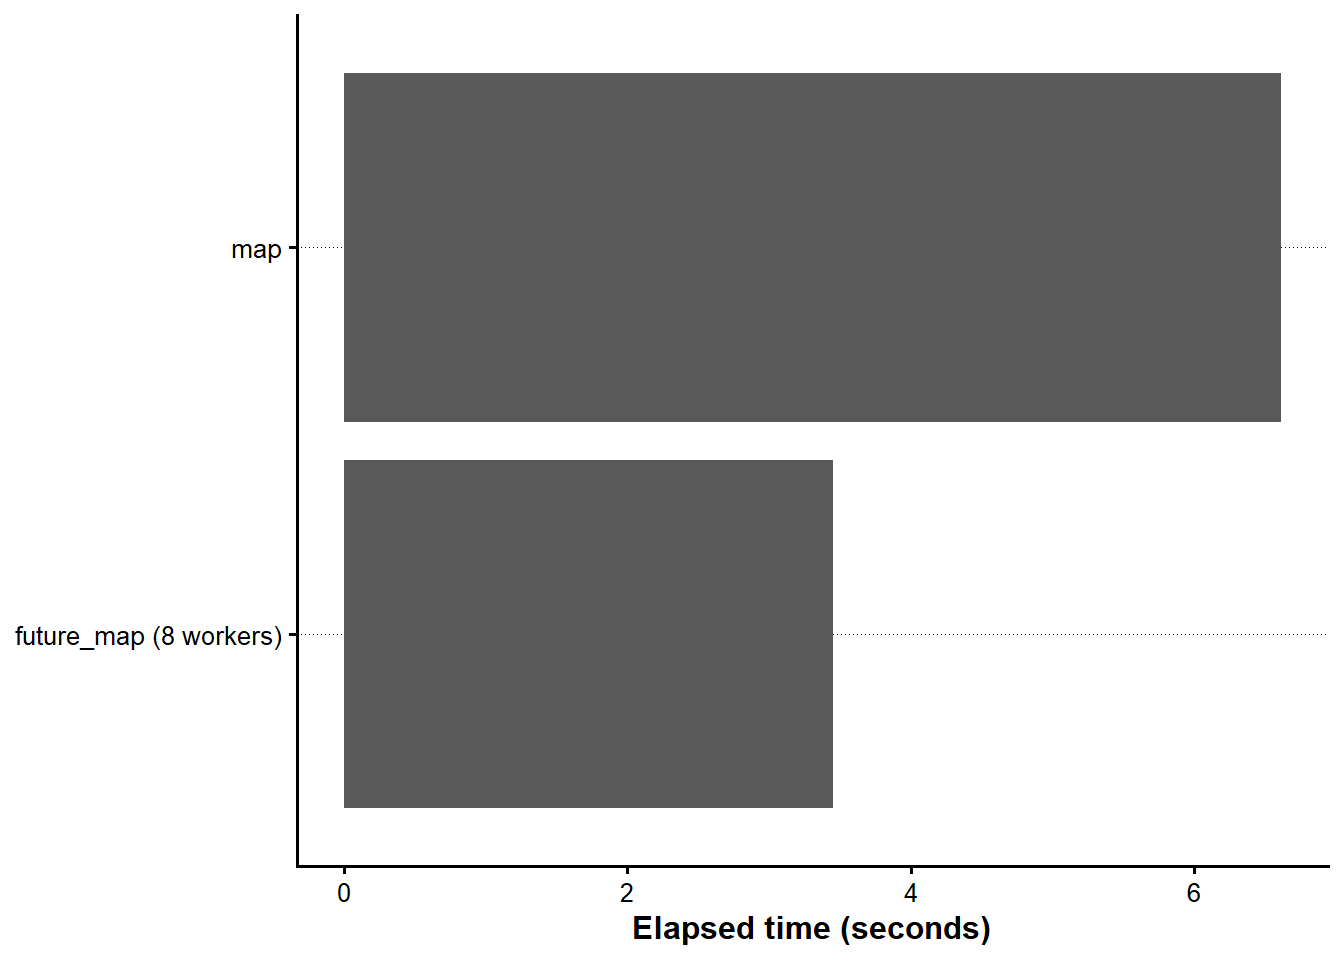
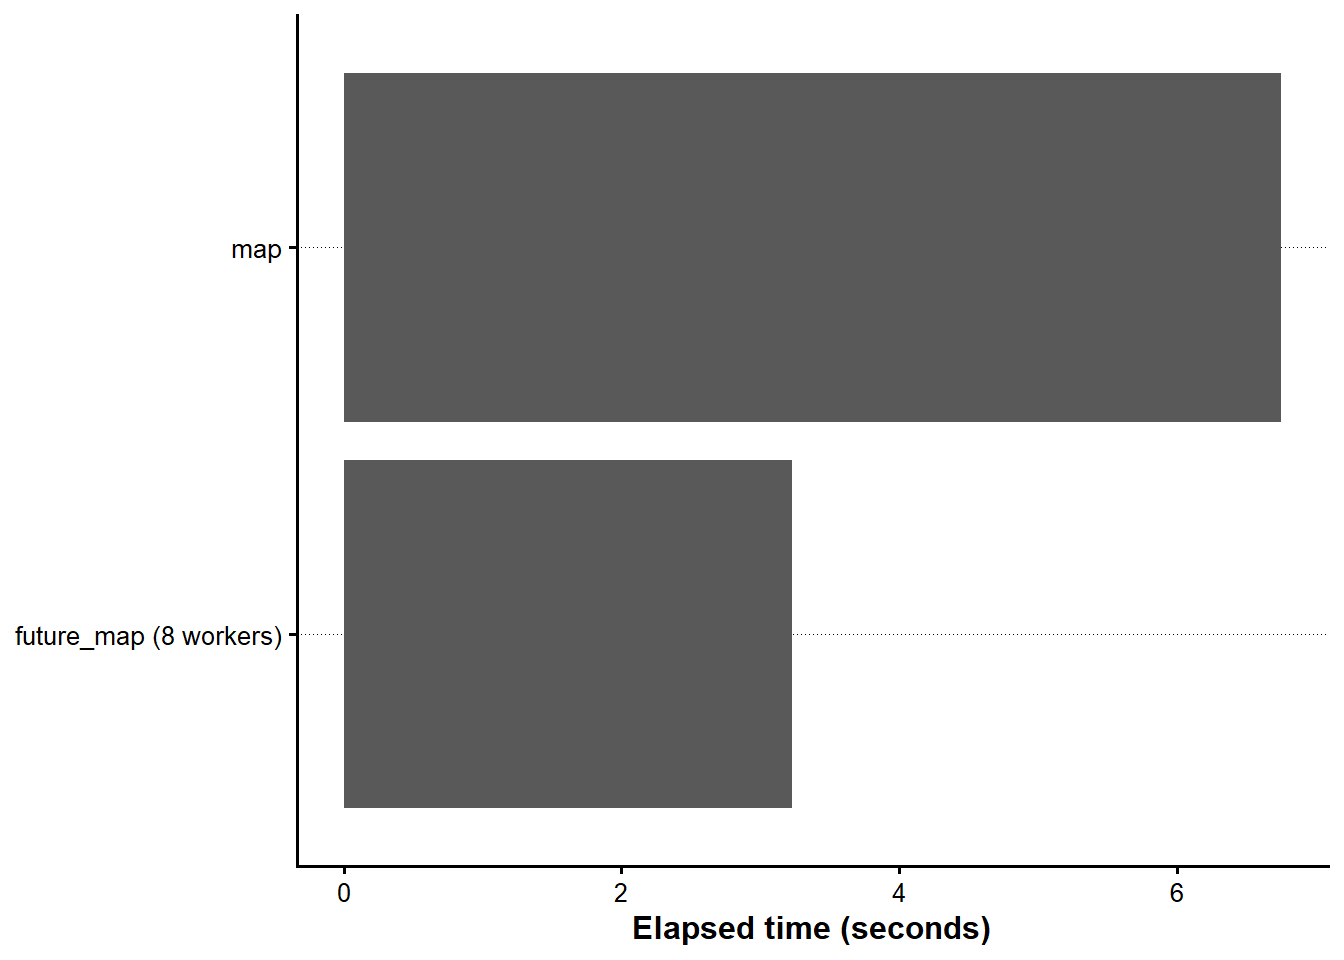
Rebuild HTML book

diff --git a/_book/index.html b/_book/index.html
@@ -8,7 +8,7 @@
 
 <meta name="author" content="Eiichi Horigome">
 
-<title>エンタープライズ金融モデル構築</title>
+<title>はじめに</title>
 <style>
 /* Default styles provided by pandoc.
 ** See https://pandoc.org/MANUAL.html#variables-for-html for config info.
@@ -85,7 +85,7 @@ ul.task-list li input[type="checkbox"] {
       <button type="button" class="quarto-btn-toggle btn" data-bs-toggle="collapse" role="button" data-bs-target=".quarto-sidebar-collapse-item" aria-controls="quarto-sidebar" aria-expanded="false" aria-label="Toggle sidebar navigation" onclick="if (window.quartoToggleHeadroom) { window.quartoToggleHeadroom(); }">
         <i class="bi bi-layout-text-sidebar-reverse"></i>
       </button>
-        <nav class="quarto-page-breadcrumbs" aria-label="breadcrumb"><ol class="breadcrumb"><li class="breadcrumb-item"><a href="./index.html"><span class="chapter-title">金融モデル構築からエンタープライズへ</span></a></li></ol></nav>
+        <nav class="quarto-page-breadcrumbs" aria-label="breadcrumb"><ol class="breadcrumb"><li class="breadcrumb-item"><a href="./index.html"><span class="chapter-title">はじめに</span></a></li></ol></nav>
         <a class="flex-grow-1" role="navigation" data-bs-toggle="collapse" data-bs-target=".quarto-sidebar-collapse-item" aria-controls="quarto-sidebar" aria-expanded="false" aria-label="Toggle sidebar navigation" onclick="if (window.quartoToggleHeadroom) { window.quartoToggleHeadroom(); }">      
         </a>
       <button type="button" class="btn quarto-search-button" aria-label="Search" onclick="window.quartoOpenSearch();">
@@ -112,7 +112,7 @@ ul.task-list li input[type="checkbox"] {
     <ul class="list-unstyled mt-1">
         <li class="sidebar-item">
   <div class="sidebar-item-container"> 
-  <a href="./index.html" class="sidebar-item-text sidebar-link active"><span class="chapter-title">金融モデル構築からエンタープライズへ</span></a>
+  <a href="./index.html" class="sidebar-item-text sidebar-link active"><span class="chapter-title">はじめに</span></a>
   </div>
 </li>
         <li class="sidebar-item sidebar-item-section">
@@ -267,7 +267,7 @@ ul.task-list li input[type="checkbox"] {
 
 <header id="title-block-header" class="quarto-title-block default">
 <div class="quarto-title">
-<h1 class="title">エンタープライズ金融モデル構築</h1>
+<h1 class="title">はじめに</h1>
 <p class="subtitle lead">Rによる金融データモデリング・金融工学・並列分散コンピューティング</p>
 </div>
 
@@ -291,8 +291,10 @@ ul.task-list li input[type="checkbox"] {
 </header>
 
 
-<div style="text-align:right; font-style:italic; margin-top:2em; margin-bottom:2em;">
-<p>“All models are wrong, but some are useful.” “「すべてのモデルは正しくない。しかし、その中には有用なものもある。」*<br>
+<p><img src="images/cover.png" title="エンタープライズ金融モデル構築" class="quarto-cover-image nolightbox img-fluid"></p>
+<div style="text-align: right; font-style: italic; margin-top: 2em; margin-bottom: 2em;">
+<p>“All models are wrong, but some are useful.”<br>
+「すべてのモデルは正しくない。しかし、その中には有用なものもある。」<br>
 — George E. P. Box</p>
 </div>
 <section id="金融モデル構築からエンタープライズへ" class="level1">
@@ -304,7 +306,9 @@ ul.task-list li input[type="checkbox"] {
 <p><strong>金融工学を学ぶ時代から、自ら金融工学システムを構築する時代へ。</strong></p>
 </blockquote>
 <p>という新しい潮流が生まれている。</p>
-<p>なお、本書は三部構成となっている。 第I部では、均衡モデルを中心とした実証ファイナンスを扱い、財務データや市場データを用いた分析手法を学ぶ。第II部では、無裁定価格理論を中心として、債券、金利期間構造、デリバティブ、信用リスクなどの金融工学モデルを実装する。さらに第III部では、第II部で実装した無裁定価格モデルを基盤として、並列処理および分散処理環境へ展開し、大規模な金融工学計算を実装する方法を扱う。 また、その実装基盤としてRおよびtidyverseを採用する。Rは統計解析言語として広く利用されているが、本書では、優れたデータハンドリング機能、ベクトル演算、関数型プログラミングの特徴を備えた実装基盤として位置付けている。これらの特徴を活かすことで、金融データの取得・加工から価格評価、リスク計測、さらには並列・分散コンピューティング環境を利用した大規模金融工学計算までを、一貫した設計思想のもとで実装することができる。</p>
+<p>なお、本書は三部構成となっている。</p>
+<p>第I部では、均衡モデルを中心とした実証ファイナンスを扱い、財務データや市場データを用いた分析手法を学ぶ。第II部では、無裁定価格理論を中心として、債券、金利期間構造、デリバティブ、信用リスクなどの金融工学モデルを実装する。さらに第III部では、第II部で実装した無裁定価格モデルを基盤として、並列処理および分散処理環境へ展開し、大規模な金融工学計算を実装する方法を扱う。</p>
+<p>また、その実装基盤としてRおよびtidyverseを採用する。Rは統計解析言語として広く利用されているが、本書では、優れたデータハンドリング機能、ベクトル演算、関数型プログラミングの特徴を備えた実装基盤として位置付けている。これらの特徴を活かすことで、金融データの取得・加工から価格評価、リスク計測、さらには並列・分散コンピューティング環境を利用した大規模金融工学計算までを、一貫した設計思想のもとで実装することができる。</p>
 <p>本書の目的は、金融理論を理解することだけではなく、それらをソフトウェアとして実装し、現代の金融工学システムを構築するための基礎技術を体系的に習得することにある。</p>
 
 

diff --git a/_book/part1_empirical/ch01_r_basics_tidyverse.html b/_book/part1_empirical/ch01_r_basics_tidyverse.html
@@ -147,7 +147,7 @@ pre > code.sourceCode > span > a:first-child::before { text-decoration: underlin
     <ul class="list-unstyled mt-1">
         <li class="sidebar-item">
   <div class="sidebar-item-container"> 
-  <a href="../index.html" class="sidebar-item-text sidebar-link"><span class="chapter-title">金融モデル構築からエンタープライズへ</span></a>
+  <a href="../index.html" class="sidebar-item-text sidebar-link"><span class="chapter-title">はじめに</span></a>
   </div>
 </li>
         <li class="sidebar-item sidebar-item-section">
@@ -1763,12 +1763,12 @@ pre > code.sourceCode > span > a:first-child::before { text-decoration: underlin
 <span id="cb64-12"><a href="#cb64-12" aria-hidden="true" tabindex="-1"></a><span class="co">#&gt; # A tibble: 2 × 5</span></span>
 <span id="cb64-13"><a href="#cb64-13" aria-hidden="true" tabindex="-1"></a><span class="co">#&gt;   chr_method             num_pi num_elapsed_seconds num_absolute_error</span></span>
 <span id="cb64-14"><a href="#cb64-14" aria-hidden="true" tabindex="-1"></a><span class="co">#&gt;   &lt;chr&gt;                   &lt;dbl&gt;               &lt;dbl&gt;              &lt;dbl&gt;</span></span>
-<span id="cb64-15"><a href="#cb64-15" aria-hidden="true" tabindex="-1"></a><span class="co">#&gt; 1 map                    3.1414              6.61          0.00016693 </span></span>
-<span id="cb64-16"><a href="#cb64-16" aria-hidden="true" tabindex="-1"></a><span class="co">#&gt; 2 future_map (8 workers) 3.1415              3.4500        0.000094774</span></span>
+<span id="cb64-15"><a href="#cb64-15" aria-hidden="true" tabindex="-1"></a><span class="co">#&gt; 1 map                    3.1414              6.75          0.00016693 </span></span>
+<span id="cb64-16"><a href="#cb64-16" aria-hidden="true" tabindex="-1"></a><span class="co">#&gt; 2 future_map (8 workers) 3.1415              3.2300        0.000094774</span></span>
 <span id="cb64-17"><a href="#cb64-17" aria-hidden="true" tabindex="-1"></a><span class="co">#&gt;   num_speedup</span></span>
 <span id="cb64-18"><a href="#cb64-18" aria-hidden="true" tabindex="-1"></a><span class="co">#&gt;         &lt;dbl&gt;</span></span>
 <span id="cb64-19"><a href="#cb64-19" aria-hidden="true" tabindex="-1"></a><span class="co">#&gt; 1      1     </span></span>
-<span id="cb64-20"><a href="#cb64-20" aria-hidden="true" tabindex="-1"></a><span class="co">#&gt; 2      1.9159</span></span></code></pre></div><button title="Copy to Clipboard" class="code-copy-button"><i class="bi"></i></button></div>
+<span id="cb64-20"><a href="#cb64-20" aria-hidden="true" tabindex="-1"></a><span class="co">#&gt; 2      2.0898</span></span></code></pre></div><button title="Copy to Clipboard" class="code-copy-button"><i class="bi"></i></button></div>
 </div>
 <div class="cell">
 <div class="code-copy-outer-scaffold"><div class="sourceCode cell-code" id="cb65"><pre class="sourceCode r code-with-copy"><code class="sourceCode r"><span id="cb65-1"><a href="#cb65-1" aria-hidden="true" tabindex="-1"></a>p <span class="ot">&lt;-</span> tbl_pi_benchmark <span class="sc">|&gt;</span></span>
@@ -1838,7 +1838,7 @@ pre > code.sourceCode > span > a:first-child::before { text-decoration: underlin
 <span id="cb67-3"><a href="#cb67-3" aria-hidden="true" tabindex="-1"></a>arrow<span class="sc">::</span><span class="fu">write_parquet</span>(tbl_arrow_price, <span class="at">sink =</span> path_parquet)</span>
 <span id="cb67-4"><a href="#cb67-4" aria-hidden="true" tabindex="-1"></a></span>
 <span id="cb67-5"><a href="#cb67-5" aria-hidden="true" tabindex="-1"></a>path_parquet</span>
-<span id="cb67-6"><a href="#cb67-6" aria-hidden="true" tabindex="-1"></a><span class="co">#&gt; [1] "C:\\Users\\besuk\\AppData\\Local\\Temp\\Rtmpu2tQjt/financial_prices.parquet"</span></span></code></pre></div><button title="Copy to Clipboard" class="code-copy-button"><i class="bi"></i></button></div>
+<span id="cb67-6"><a href="#cb67-6" aria-hidden="true" tabindex="-1"></a><span class="co">#&gt; [1] "C:\\Users\\besuk\\AppData\\Local\\Temp\\Rtmp67OMeB/financial_prices.parquet"</span></span></code></pre></div><button title="Copy to Clipboard" class="code-copy-button"><i class="bi"></i></button></div>
 </div>
 <div class="cell">
 <div class="code-copy-outer-scaffold"><div class="sourceCode cell-code" id="cb68"><pre class="sourceCode r code-with-copy"><code class="sourceCode r"><span id="cb68-1"><a href="#cb68-1" aria-hidden="true" tabindex="-1"></a>arrow<span class="sc">::</span><span class="fu">read_parquet</span>(path_parquet) <span class="sc">|&gt;</span></span>
@@ -2511,8 +2511,8 @@ pre > code.sourceCode > span > a:first-child::before { text-decoration: underlin
   </script>
 <nav class="page-navigation">
   <div class="nav-page nav-page-previous">
-      <a href="../index.html" class="pagination-link" aria-label="金融モデル構築からエンタープライズへ">
-        <i class="bi bi-arrow-left-short"></i> <span class="nav-page-text"><span class="chapter-title">金融モデル構築からエンタープライズへ</span></span>
+      <a href="../index.html" class="pagination-link" aria-label="はじめに">
+        <i class="bi bi-arrow-left-short"></i> <span class="nav-page-text"><span class="chapter-title">はじめに</span></span>
       </a>          
   </div>
   <div class="nav-page nav-page-next">

diff --git a/_book/part3_enterprise_riemann/ch01_centric_parallel_comput.html b/_book/part3_enterprise_riemann/ch01_centric_parallel_comput.html
@@ -147,7 +147,7 @@ pre > code.sourceCode > span > a:first-child::before { text-decoration: underlin
     <ul class="list-unstyled mt-1">
         <li class="sidebar-item">
   <div class="sidebar-item-container"> 
-  <a href="../index.html" class="sidebar-item-text sidebar-link"><span class="chapter-title">金融モデル構築からエンタープライズへ</span></a>
+  <a href="../index.html" class="sidebar-item-text sidebar-link"><span class="chapter-title">はじめに</span></a>
   </div>
 </li>
         <li class="sidebar-item sidebar-item-section">
@@ -659,8 +659,8 @@ write_parquet()</code></pre>
 <span id="cb21-11"><a href="#cb21-11" aria-hidden="true" tabindex="-1"></a><span class="co">#&gt; # A tibble: 2 × 3</span></span>
 <span id="cb21-12"><a href="#cb21-12" aria-hidden="true" tabindex="-1"></a><span class="co">#&gt;   method            elapsed_seconds relative_to_sequential</span></span>
 <span id="cb21-13"><a href="#cb21-13" aria-hidden="true" tabindex="-1"></a><span class="co">#&gt;   &lt;chr&gt;                       &lt;dbl&gt;                  &lt;dbl&gt;</span></span>
-<span id="cb21-14"><a href="#cb21-14" aria-hidden="true" tabindex="-1"></a><span class="co">#&gt; 1 purrr::map                 1.3500                1      </span></span>
-<span id="cb21-15"><a href="#cb21-15" aria-hidden="true" tabindex="-1"></a><span class="co">#&gt; 2 furrr::future_map          1.2200                0.90370</span></span></code></pre></div><button title="Copy to Clipboard" class="code-copy-button"><i class="bi"></i></button></div>
+<span id="cb21-14"><a href="#cb21-14" aria-hidden="true" tabindex="-1"></a><span class="co">#&gt; 1 purrr::map                 1.3300                 1     </span></span>
+<span id="cb21-15"><a href="#cb21-15" aria-hidden="true" tabindex="-1"></a><span class="co">#&gt; 2 furrr::future_map          1.5                    1.1278</span></span></code></pre></div><button title="Copy to Clipboard" class="code-copy-button"><i class="bi"></i></button></div>
 </div>
 <div class="cell">
 <div class="code-copy-outer-scaffold"><div class="sourceCode cell-code" id="cb22"><pre class="sourceCode r code-with-copy"><code class="sourceCode r"><span id="cb22-1"><a href="#cb22-1" aria-hidden="true" tabindex="-1"></a>plot_benchmark <span class="ot">&lt;-</span> tbl_benchmark <span class="sc">|&gt;</span></span>

diff --git a/_book/part1_empirical/ch02_financial_data.html b/_book/part1_empirical/ch02_financial_data.html
@@ -176,7 +176,7 @@ window.Quarto = {
     <ul class="list-unstyled mt-1">
         <li class="sidebar-item">
   <div class="sidebar-item-container"> 
-  <a href="../index.html" class="sidebar-item-text sidebar-link"><span class="chapter-title">金融モデル構築からエンタープライズへ</span></a>
+  <a href="../index.html" class="sidebar-item-text sidebar-link"><span class="chapter-title">はじめに</span></a>
   </div>
 </li>
         <li class="sidebar-item sidebar-item-section">
@@ -1289,7 +1289,7 @@ NBC_t = \frac{NFE_t}{NFO_{t-1}}
 <span id="cb28-13"><a href="#cb28-13" aria-hidden="true" tabindex="-1"></a><span class="co">#&gt;                                                                                                        size</span></span>
 <span id="cb28-14"><a href="#cb28-14" aria-hidden="true" tabindex="-1"></a><span class="co">#&gt; C:/AnalyticFin/Projects/LagrangeFinance/data/derived/fundamentals/financial_characteristics.parquet 1357543</span></span>
 <span id="cb28-15"><a href="#cb28-15" aria-hidden="true" tabindex="-1"></a><span class="co">#&gt;                                                                                                                   mtime</span></span>
-<span id="cb28-16"><a href="#cb28-16" aria-hidden="true" tabindex="-1"></a><span class="co">#&gt; C:/AnalyticFin/Projects/LagrangeFinance/data/derived/fundamentals/financial_characteristics.parquet 2026-08-03 14:32:21</span></span></code></pre></div><button title="Copy to Clipboard" class="code-copy-button"><i class="bi"></i></button></div>
+<span id="cb28-16"><a href="#cb28-16" aria-hidden="true" tabindex="-1"></a><span class="co">#&gt; C:/AnalyticFin/Projects/LagrangeFinance/data/derived/fundamentals/financial_characteristics.parquet 2026-08-11 10:19:32</span></span></code></pre></div><button title="Copy to Clipboard" class="code-copy-button"><i class="bi"></i></button></div>
 </div>
 <p>保存したParquetファイルを読み直し、行数と列名が一致することを確認する。</p>
 <div class="cell">

diff --git a/_book/part3_enterprise_riemann/ch02_distribute_comput_jobtask.html b/_book/part3_enterprise_riemann/ch02_distribute_comput_jobtask.html
@@ -147,7 +147,7 @@ pre > code.sourceCode > span > a:first-child::before { text-decoration: underlin
     <ul class="list-unstyled mt-1">
         <li class="sidebar-item">
   <div class="sidebar-item-container"> 
-  <a href="../index.html" class="sidebar-item-text sidebar-link"><span class="chapter-title">金融モデル構築からエンタープライズへ</span></a>
+  <a href="../index.html" class="sidebar-item-text sidebar-link"><span class="chapter-title">はじめに</span></a>
   </div>
 </li>
         <li class="sidebar-item sidebar-item-section">

diff --git a/_book/part3_enterprise_riemann/ch03_impl_enterprise_calc.html b/_book/part3_enterprise_riemann/ch03_impl_enterprise_calc.html
@@ -146,7 +146,7 @@ pre > code.sourceCode > span > a:first-child::before { text-decoration: underlin
     <ul class="list-unstyled mt-1">
         <li class="sidebar-item">
   <div class="sidebar-item-container"> 
-  <a href="../index.html" class="sidebar-item-text sidebar-link"><span class="chapter-title">金融モデル構築からエンタープライズへ</span></a>
+  <a href="../index.html" class="sidebar-item-text sidebar-link"><span class="chapter-title">はじめに</span></a>
   </div>
 </li>
         <li class="sidebar-item sidebar-item-section">

diff --git a/_book/part1_empirical/ch03_stock_data_time_series.html b/_book/part1_empirical/ch03_stock_data_time_series.html
@@ -176,7 +176,7 @@ window.Quarto = {
     <ul class="list-unstyled mt-1">
         <li class="sidebar-item">
   <div class="sidebar-item-container"> 
-  <a href="../index.html" class="sidebar-item-text sidebar-link"><span class="chapter-title">金融モデル構築からエンタープライズへ</span></a>
+  <a href="../index.html" class="sidebar-item-text sidebar-link"><span class="chapter-title">はじめに</span></a>
   </div>
 </li>
         <li class="sidebar-item sidebar-item-section">

diff --git a/_book/part1_empirical/ch04_factor_models.html b/_book/part1_empirical/ch04_factor_models.html
@@ -176,7 +176,7 @@ window.Quarto = {
     <ul class="list-unstyled mt-1">
         <li class="sidebar-item">
   <div class="sidebar-item-container"> 
-  <a href="../index.html" class="sidebar-item-text sidebar-link"><span class="chapter-title">金融モデル構築からエンタープライズへ</span></a>
+  <a href="../index.html" class="sidebar-item-text sidebar-link"><span class="chapter-title">はじめに</span></a>
   </div>
 </li>
         <li class="sidebar-item sidebar-item-section">

diff --git a/_book/part1_empirical/ch05_asset_pricing.html b/_book/part1_empirical/ch05_asset_pricing.html
@@ -176,7 +176,7 @@ window.Quarto = {
     <ul class="list-unstyled mt-1">
         <li class="sidebar-item">
   <div class="sidebar-item-container"> 
-  <a href="../index.html" class="sidebar-item-text sidebar-link"><span class="chapter-title">金融モデル構築からエンタープライズへ</span></a>
+  <a href="../index.html" class="sidebar-item-text sidebar-link"><span class="chapter-title">はじめに</span></a>
   </div>
 </li>
         <li class="sidebar-item sidebar-item-section">

diff --git a/_book/part1_empirical/ch06_event_study.html b/_book/part1_empirical/ch06_event_study.html
@@ -176,7 +176,7 @@ window.Quarto = {
     <ul class="list-unstyled mt-1">
         <li class="sidebar-item">
   <div class="sidebar-item-container"> 
-  <a href="../index.html" class="sidebar-item-text sidebar-link"><span class="chapter-title">金融モデル構築からエンタープライズへ</span></a>
+  <a href="../index.html" class="sidebar-item-text sidebar-link"><span class="chapter-title">はじめに</span></a>
   </div>
 </li>
         <li class="sidebar-item sidebar-item-section">

diff --git a/_book/part1_empirical/ch07_machine_learning_factor_selection.html b/_book/part1_empirical/ch07_machine_learning_factor_selection.html
@@ -176,7 +176,7 @@ window.Quarto = {
     <ul class="list-unstyled mt-1">
         <li class="sidebar-item">
   <div class="sidebar-item-container"> 
-  <a href="../index.html" class="sidebar-item-text sidebar-link"><span class="chapter-title">金融モデル構築からエンタープライズへ</span></a>
+  <a href="../index.html" class="sidebar-item-text sidebar-link"><span class="chapter-title">はじめに</span></a>
   </div>
 </li>
         <li class="sidebar-item sidebar-item-section">

diff --git a/_book/part1_empirical/ch08_constrained_portfolio_optimization.html b/_book/part1_empirical/ch08_constrained_portfolio_optimization.html
@@ -176,7 +176,7 @@ window.Quarto = {
     <ul class="list-unstyled mt-1">
         <li class="sidebar-item">
   <div class="sidebar-item-container"> 
-  <a href="../index.html" class="sidebar-item-text sidebar-link"><span class="chapter-title">金融モデル構築からエンタープライズへ</span></a>
+  <a href="../index.html" class="sidebar-item-text sidebar-link"><span class="chapter-title">はじめに</span></a>
   </div>
 </li>
         <li class="sidebar-item sidebar-item-section">
